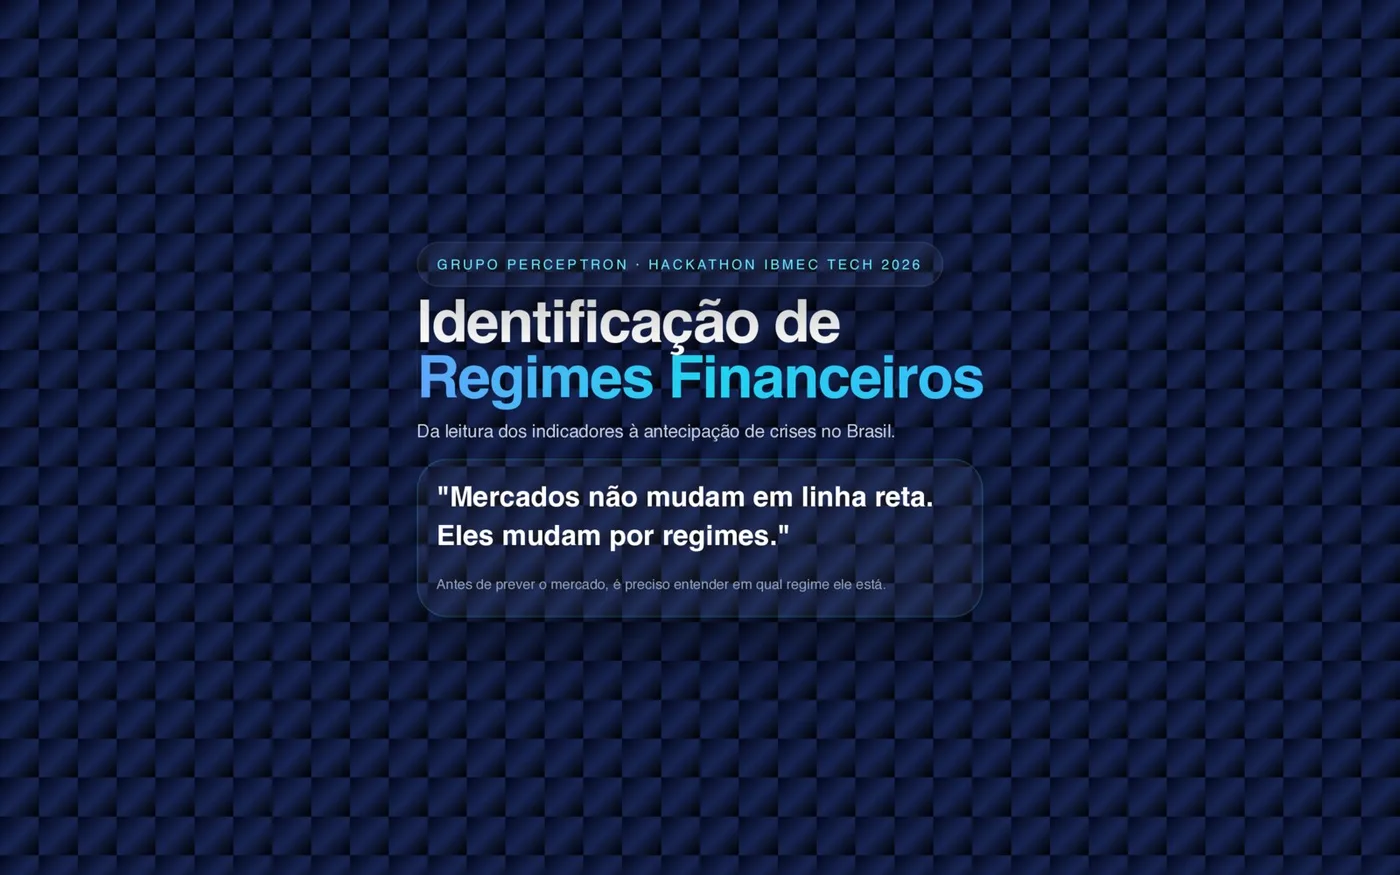
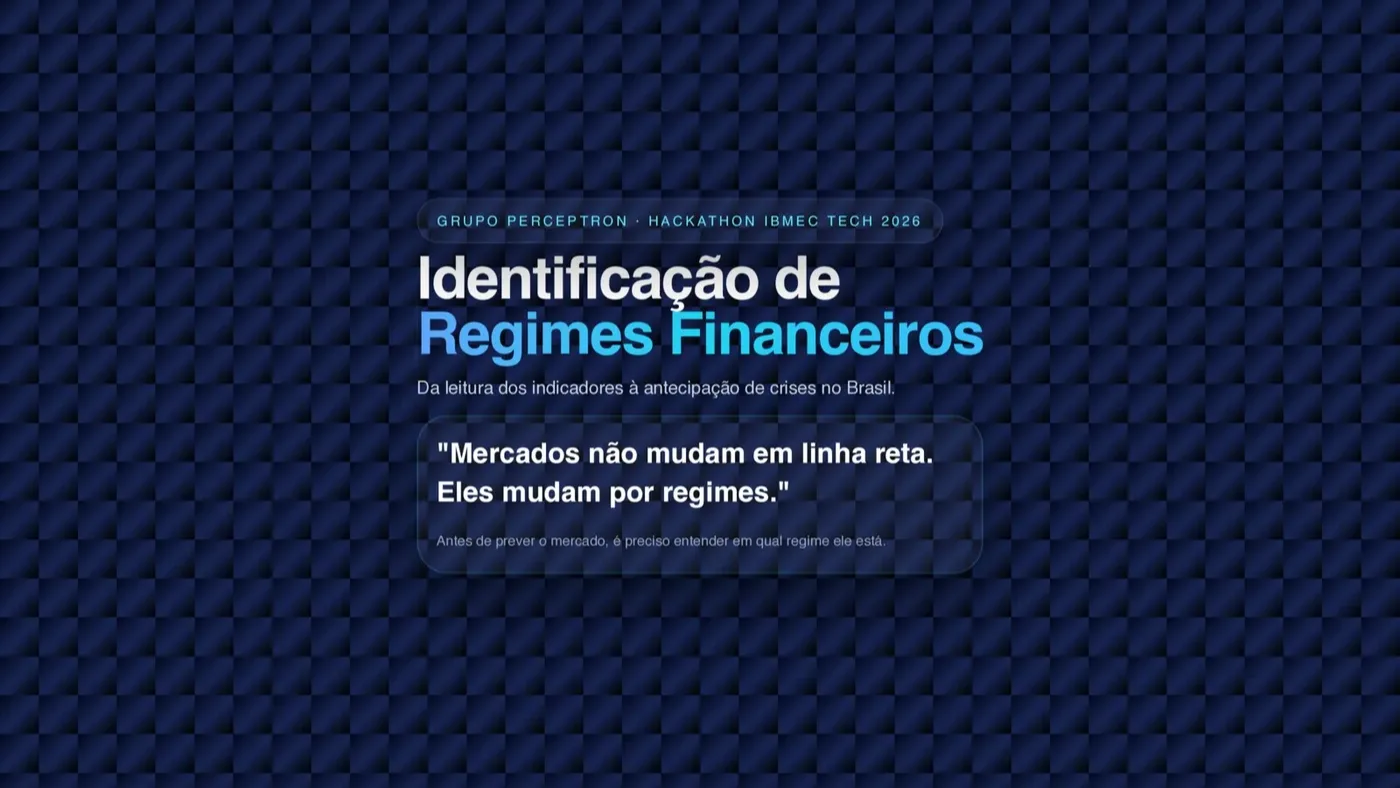
Corrige alinhamento dos cards e adiciona projeto Ninho
O card nao preenchia a celula da grade: faltava h-full em cardClasses.
O wrapper Reveal esticava para a altura da linha, mas o card dentro
parava na altura do proprio conteudo. Com a descricao longa e 6 tags
do Perceptron, a linha 1 ficava com 88px de diferenca entre as bases
do Perceptron (713px) e do Vision (625px). As linhas 2 e 3 escapavam
por coincidencia, porque os pares tem texto de tamanho parecido.

Alem do h-full, a barra de links usa mt-auto para alinhar na base, e
as tags ganham mb-6 apenas quando existe barra de links -- sem isso o
mt-auto vira zero no card mais alto da linha e as tags encostam na
borda.

A capa do Perceptron era 1400x875 enquanto todas as outras sao
1400x788. Com object-cover object-top ela perdia 87px so na base.
Recortada centralizada para 16:9, sem perder conteudo.

Ninho entra como Projeto 07, nos tres idiomas, com capa 1400x788.

diff --git a/src/i18n/content.ts b/src/i18n/content.ts
@@ -350,6 +350,12 @@ const pt: Dictionary = {
           "Conceito de produto para organização financeira pessoal, transformando complexidade em clareza para o usuário, do problema à proposta de valor.",
         tags: ["Fintech", "Produto Digital", "Finanças", "UX", "Estratégia"],
       },
+      ninho: {
+        kicker: "Projeto 07",
+        description:
+          "Sistema de gestão em produção numa granja de postura real, usado todo dia por quem não é técnico. Cobre produção, estoque de ovos com FIFO por validade, projeção de ração, pedidos e clientes segmentados por RFV, com roteirização de entregas por distância e tempo reais de estrada.",
+        tags: ["Next.js", "Supabase", "PWA", "Roteirização", "RFV", "Produto"],
+      },
     },
     liveLabel: "Ver projeto",
     codeLabel: "Ver código",
@@ -643,6 +649,12 @@ const en: Dictionary = {
           "A product concept for personal financial organization, turning complexity into clarity for the user, from problem to value proposition.",
         tags: ["Fintech", "Digital Product", "Finance", "UX", "Strategy"],
       },
+      ninho: {
+        kicker: "Project 07",
+        description:
+          "A management system running in production at a real laying-hen farm, used daily by non-technical people. It covers production, egg inventory with FIFO by expiry date, feed forecasting, orders and RFM-segmented customers, with delivery routing based on real road distance and time.",
+        tags: ["Next.js", "Supabase", "PWA", "Routing", "RFM", "Product"],
+      },
     },
     liveLabel: "View project",
     codeLabel: "View code",
@@ -935,6 +947,12 @@ const es: Dictionary = {
         description:
           "Concepto de producto para organización financiera personal, transformando complejidad en claridad para el usuario, del problema a la propuesta de valor.",
         tags: ["Fintech", "Producto Digital", "Finanzas", "UX", "Estrategia"],
+      },
+      ninho: {
+        kicker: "Proyecto 07",
+        description:
+          "Sistema de gestión en producción en una granja de postura real, usado a diario por personas sin perfil técnico. Cubre producción, stock de huevos con FIFO por caducidad, proyección de alimento, pedidos y clientes segmentados por RFM, con ruteo de entregas por distancia y tiempo reales de carretera.",
+        tags: ["Next.js", "Supabase", "PWA", "Ruteo", "RFM", "Producto"],
       },
     },
     liveLabel: "Ver proyecto",

diff --git a/src/components/ProjectCard.tsx b/src/components/ProjectCard.tsx
@@ -3,8 +3,10 @@ import { useI18n } from "../i18n/LanguageContext";
 import type { ProjectCopy } from "../i18n/content";
 import { Tag } from "./ui/Tag";
 
+// h-full: sem isso o card nao preenche a celula da grade, e o vizinho de texto
+// mais curto fica com a base desalinhada em relacao ao mais alto da linha.
 const cardClasses =
-  "group flex flex-col overflow-hidden rounded-panel border border-hairline bg-surface shadow-soft transition-all duration-300 hover:-translate-y-1.5 hover:shadow-lift";
+  "group flex h-full flex-col overflow-hidden rounded-panel border border-hairline bg-surface shadow-soft transition-all duration-300 hover:-translate-y-1.5 hover:shadow-lift";
 
 export function ProjectCard({
   meta,
@@ -43,7 +45,11 @@ export function ProjectCard({
           {copy.description}
         </p>
 
-        <ul className="mt-5 flex flex-wrap gap-2">
+        <ul
+          className={`mt-5 flex flex-wrap gap-2${
+            links.length > 0 ? " mb-6" : ""
+          }`}
+        >
           {copy.tags.map((tag) => (
             <li key={tag}>
               <Tag>{tag}</Tag>
@@ -52,7 +58,7 @@ export function ProjectCard({
         </ul>
 
         {links.length > 0 && (
-          <div className="mt-6 flex flex-wrap items-center gap-x-5 gap-y-2 border-t border-hairline pt-5">
+          <div className="mt-auto flex flex-wrap items-center gap-x-5 gap-y-2 border-t border-hairline pt-5">
             {links.map((l) =>
               links.length === 1 ? (
                 // Whole card is the anchor — render the label as plain text.

diff --git a/src/data/projects.ts b/src/data/projects.ts
@@ -65,4 +65,12 @@ export const projects: ProjectMeta[] = [
     alt: "Conceito de produto Monevo para organização financeira",
     // deckUrl: "https://...",
   },
+  {
+    id: "ninho",
+    title: "Ninho",
+    image: asset("assets/img/projeto-ninho.webp"),
+    alt: "Painel do Ninho com produção de ovos, ração, pedidos e clientes",
+    // liveUrl: "https://...",
+    // codeUrl: "https://github.com/daviyoshio/ninho",
+  },
 ];
